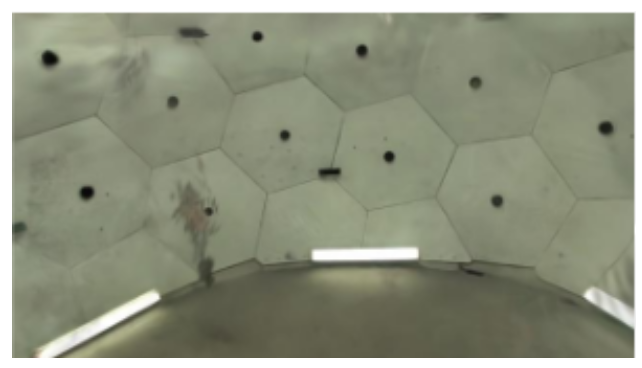
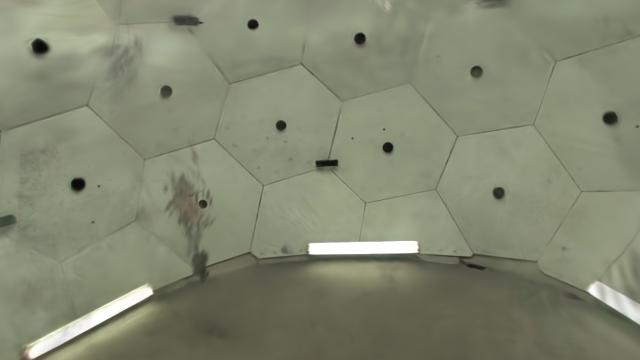
ref : The Challenge in Fast Motion

diff --git a/index.html b/index.html
@@ -254,7 +254,7 @@
               </div>
               <div class="obs-detail obs-detail-impact">
                 <p class="obs-detail-label">Observed Effect</p>
-                <p class="obs-detail-text">Fast-moving objects disappear or fragment because the model cannot reliably recover them in canonical space.</p>
+                <p class="obs-detail-text">Fast-moving objects disappear or fragment because the model cannot recover them in canonical space.</p>
               </div>
             </div>
           </div>
